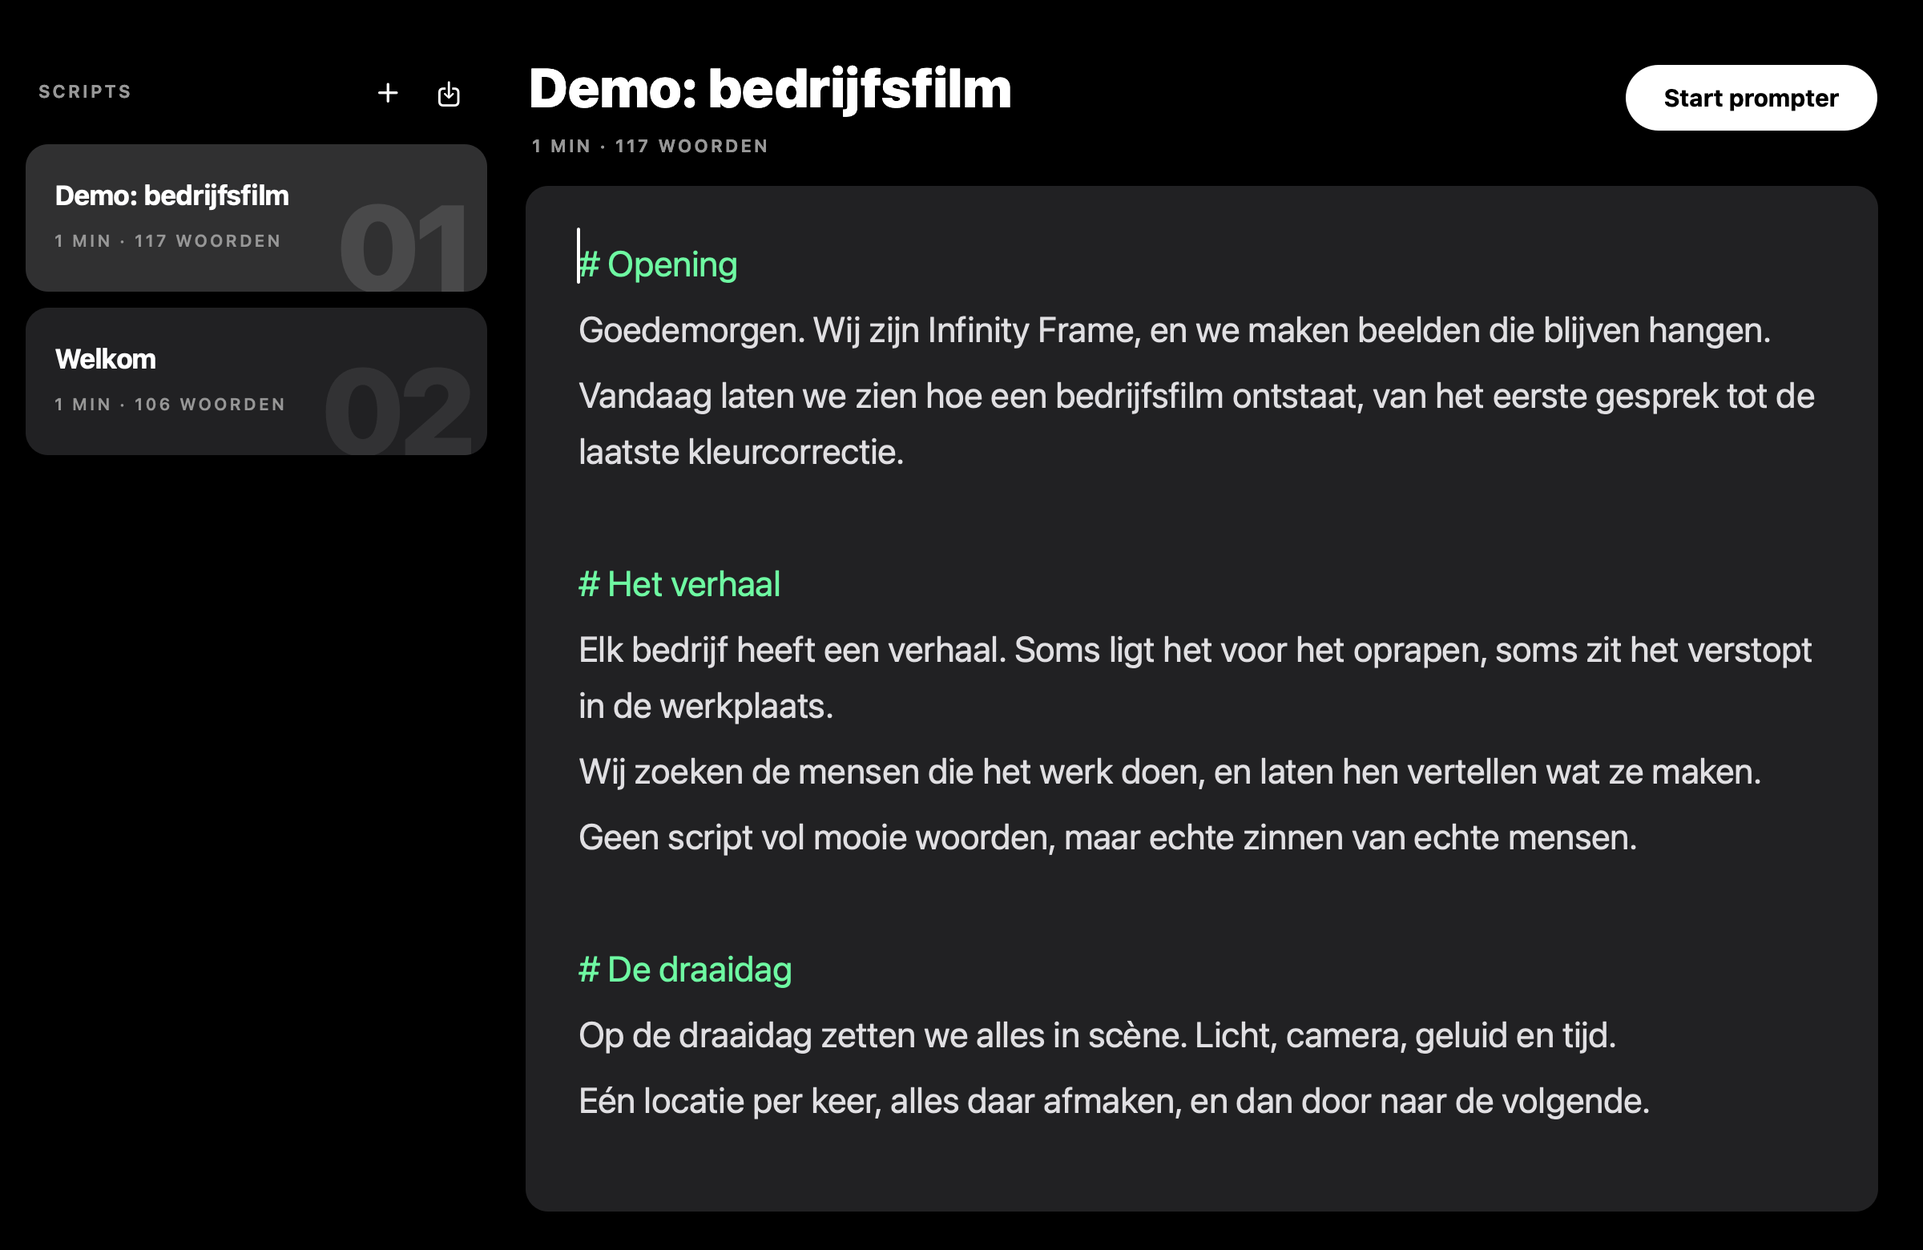
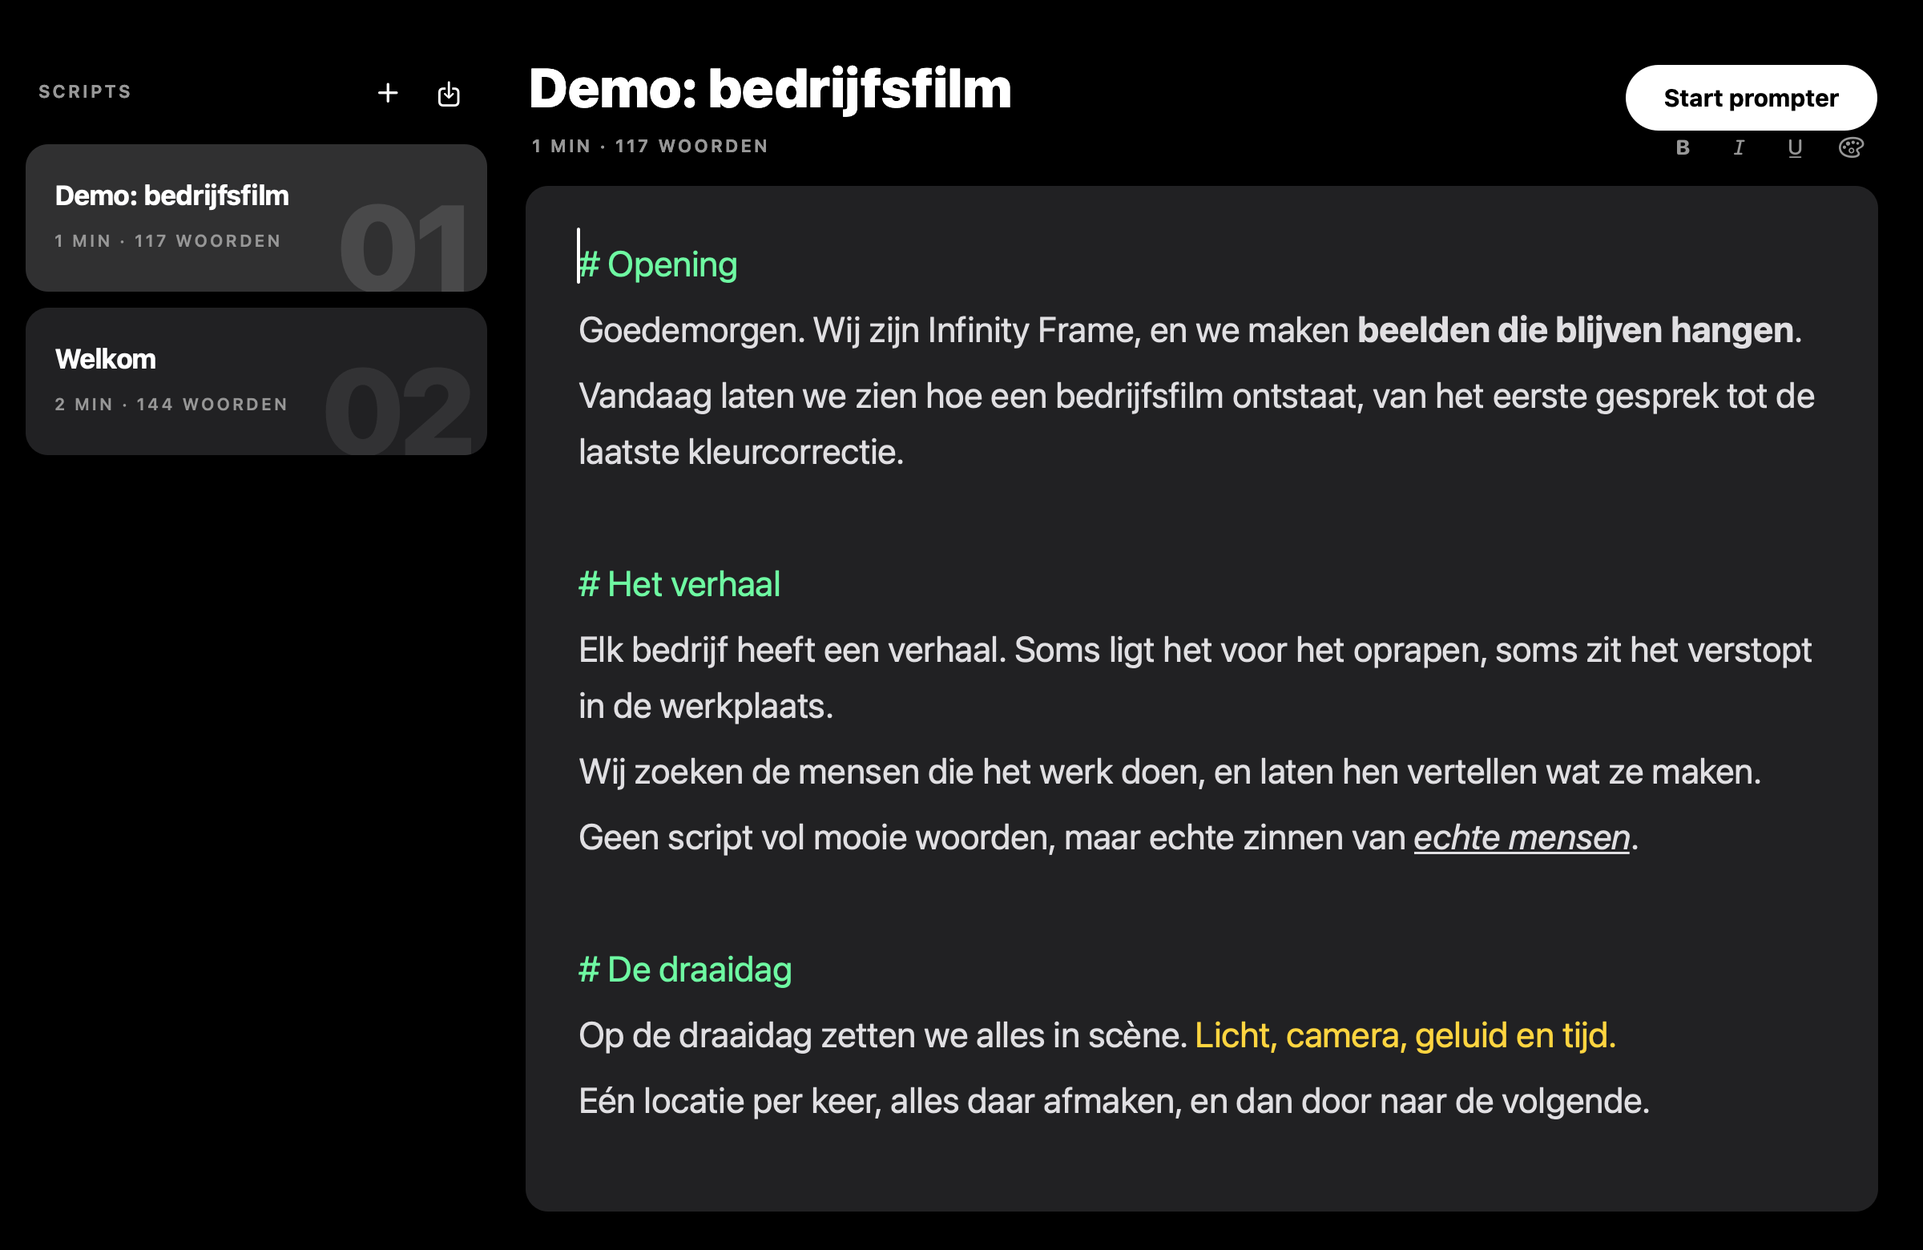
Build 5 (1.0)

diff --git a/MainWindow.swift b/MainWindow.swift
@@ -930,6 +930,8 @@ final class CountdownView: NSView {
     private let timeValue = makeLabel("0:00", size: 17, weight: .semibold)
     private let speedLabel = makeLabel(size: 10)
     private let timeClick = ClickView()
+    private let leftHandle = WidthHandle()
+    private let rightHandle = WidthHandle()
     private let speedValue = makeLabel("20", size: 30, weight: .heavy)
     private let toast = makeLabel(size: 13, weight: .semibold)
     private var playButton: NSButton?
@@ -951,6 +953,11 @@ final class CountdownView: NSView {
         wantsLayer = true
         addSubview(prompter)
         addSubview(countdown)
+        addSubview(leftHandle)
+        addSubview(rightHandle)
+        for h in [leftHandle, rightHandle] {
+            h.onDrag = { [weak self] x in self?.dragWidth(toX: x) }
+        }
         addSubview(bar)
         bar.addSubview(progress)
         toast.alignment = .center
@@ -1036,6 +1043,7 @@ final class CountdownView: NSView {
         let w = min(860, max(bounds.width - 32, 200))
         let h: CGFloat = 78
         bar.frame = NSRect(x: (bounds.width - w) / 2, y: bounds.height - h - 18, width: w, height: h)
+        layoutHandles()
         progress.frame = NSRect(x: 22, y: 10, width: w - 44, height: 3)
         stack.frame = NSRect(x: 0, y: 16, width: w, height: h - 18)
         toast.frame = NSRect(x: 0, y: bar.frame.minY - 34, width: bounds.width, height: 20)
@@ -1082,6 +1090,7 @@ final class CountdownView: NSView {
     private func refreshState() {
         let p = Prompter.shared
         let s = p.settings
+        layoutHandles()
         if p.isHoldingSlow {
             speedValue.stringValue = "\(Int(max(0, p.speed - s.holdSlowSteps).rounded()))"
             speedLabel.attributedStringValue = Theme.label("Trager", size: 9.5, color: Theme.mint)
@@ -1121,7 +1130,12 @@ final class CountdownView: NSView {
     private func showBar() {
         guard !barVisible else { return }
         barVisible = true
-        NSAnimationContext.runAnimationGroup { c in c.duration = Theme.fast; bar.animator().alphaValue = 1 }
+        NSAnimationContext.runAnimationGroup { c in
+            c.duration = Theme.fast
+            bar.animator().alphaValue = 1
+            leftHandle.animator().alphaValue = 1
+            rightHandle.animator().alphaValue = 1
+        }
     }
 
     private func scheduleHide() {
@@ -1133,7 +1147,12 @@ final class CountdownView: NSView {
             MainActor.assumeIsolated {
                 guard let self = self, Prompter.shared.isScrolling, Prompter.shared.settings.hideControlsWhileScrolling else { return }
                 self.barVisible = false
-                NSAnimationContext.runAnimationGroup { c in c.duration = Theme.soft; self.bar.animator().alphaValue = 0 }
+                NSAnimationContext.runAnimationGroup { c in
+                    c.duration = Theme.soft
+                    self.bar.animator().alphaValue = 0
+                    self.leftHandle.animator().alphaValue = 0
+                    self.rightHandle.animator().alphaValue = 0
+                }
             }
         }
         hideWork = work
@@ -1159,6 +1178,32 @@ final class CountdownView: NSView {
     @objc private func mirrorClicked() { Prompter.shared.toggleMirrorMain() }
     @objc private func closeClicked() { onClose?() }
     @objc private func screenClicked() { toggleSecondScreen() }
+
+    // MARK: Text width handles
+
+    /// Handles sit on the edges of the text column. The column is symmetric, so mirroring does not move them.
+    private func layoutHandles() {
+        let w = bounds.width
+        guard w > 0 else { return }
+        let margin = (w * CGFloat(Prompter.shared.settings.marginFraction)).rounded()
+        let hw: CGFloat = 24
+        let top: CGFloat = 40
+        let height = max(bar.frame.minY - top - 24, 40)
+        leftHandle.frame = NSRect(x: margin - hw / 2, y: top, width: hw, height: height)
+        rightHandle.frame = NSRect(x: w - margin - hw / 2, y: top, width: hw, height: height)
+    }
+
+    /// Dragging either side moves both: the margin is the distance from the nearest window edge.
+    private func dragWidth(toX x: CGFloat) {
+        let w = bounds.width
+        guard w > 0, x.isFinite else { return }
+        let local = min(x, w - x)
+        let fraction = Double(local / w)
+        let width = ((1 - 2 * fraction) * 100).rounded() / 100
+        var s = Prompter.shared.settings
+        s.marginFraction = TextWidth.margin(forWidth: width)
+        Prompter.shared.settings = s
+    }
 
     func toggleSecondScreen() {
         PrompterScreen.toggleSecondScreenStatic(toast: { [weak self] t in self?.showToast(t) })
@@ -1618,7 +1663,9 @@ private final class SidebarItem: NSView {
                 slider("Grootte", 20, 220, read: { $0.fontSize }, format: { "\(Int($0.rounded()))" }) { $0.fontSize = $1.rounded() },
                 slider("Regelafstand", 1.0, 2.5, read: { $0.lineSpacing },
                        format: { String(format: "%.1f", $0).replacingOccurrences(of: ".", with: ",") }) { $0.lineSpacing = ($1 * 10).rounded() / 10 },
-                slider("Marges", 0, 0.4, read: { $0.marginFraction }, format: pct) { $0.marginFraction = ($1 * 100).rounded() / 100 },
+                slider("Breedte tekst", 0.2, 1, read: { 1 - 2 * $0.marginFraction }, format: pct) {
+                    $0.marginFraction = TextWidth.margin(forWidth: ($1 * 100).rounded() / 100)
+                },
                 colorRow("Tekstkleur", read: { Prompter.shared.settings.textColor },
                          write: { [weak self] c in self?.change { $0.textColorHex = Theme.hex(c) } }),
                 colorRow("Achtergrond", read: { Prompter.shared.settings.backgroundColor },
@@ -1764,4 +1811,56 @@ final class ActionButton: NSButton {
         action = #selector(fire)
     }
     @objc private func fire() { onClick?() }
+}
+
+// MARK: - Text width
+
+enum TextWidth {
+    /// Width of the text column as a fraction of the window, 0.2...1, to the per-side margin.
+    static func margin(forWidth width: Double) -> Double {
+        guard width.isFinite else { return 0.12 }
+        let w = min(max(width, 0.2), 1)
+        return ((1 - w) / 2 * 1000).rounded() / 1000
+    }
+    static func width(of s: PrompterSettings) -> Double { 1 - 2 * s.marginFraction }
+
+    /// ⌘[ / ⌘]: 5% of the window per step.
+    @MainActor static func step(_ delta: Double) {
+        var s = Prompter.shared.settings
+        let w = ((width(of: s) + delta) * 100).rounded() / 100
+        s.marginFraction = margin(forWidth: w)
+        Prompter.shared.settings = s
+    }
+}
+
+/// Thin drag handle on an edge of the text column.
+final class WidthHandle: NSView {
+    var onDrag: ((CGFloat) -> Void)?
+    private var hover = false { didSet { if hover != oldValue { needsDisplay = true } } }
+    override var isFlipped: Bool { true }
+
+    override func draw(_ dirtyRect: NSRect) {
+        let x = bounds.midX
+        NSColor(white: 1, alpha: hover ? 0.5 : 0.22).setFill()
+        NSRect(x: x - 0.5, y: 0, width: 1, height: bounds.height).fill(using: .sourceOver)
+        let grip = NSRect(x: x - 3, y: bounds.midY - 22, width: 6, height: 44)
+        NSColor(white: 1, alpha: hover ? 0.95 : 0.7).setFill()
+        NSBezierPath(roundedRect: grip, xRadius: 3, yRadius: 3).fill()
+    }
+
+    override func resetCursorRects() { addCursorRect(bounds, cursor: .resizeLeftRight) }
+
+    override func updateTrackingAreas() {
+        super.updateTrackingAreas()
+        for t in trackingAreas { removeTrackingArea(t) }
+        addTrackingArea(NSTrackingArea(rect: .zero, options: [.mouseEnteredAndExited, .activeAlways, .inVisibleRect], owner: self, userInfo: nil))
+    }
+    override func mouseEntered(with event: NSEvent) { hover = true }
+    override func mouseExited(with event: NSEvent) { hover = false }
+    override func mouseDown(with event: NSEvent) { hover = true }
+    override func mouseDragged(with event: NSEvent) {
+        guard let parent = superview else { return }
+        onDrag?(parent.convert(event.locationInWindow, from: nil).x)
+    }
+    override func mouseUp(with event: NSEvent) { hover = false }
 }

diff --git a/App.swift b/App.swift
@@ -252,6 +252,8 @@ struct InfinityPromptMain {
     @objc func bigger(_ sender: Any?) { Prompter.shared.biggerFont() }
     @objc func smaller(_ sender: Any?) { Prompter.shared.smallerFont() }
     @objc func secondScreen(_ sender: Any?) { main?.toggleSecondScreen() }
+    @objc func narrower(_ sender: Any?) { TextWidth.step(-0.05) }
+    @objc func wider(_ sender: Any?) { TextWidth.step(0.05) }
     @objc func openSettings(_ sender: Any?) { SettingsWindow.shared.show() }
     @objc func formatBold(_ sender: Any?) { main?.toggleBold() }
     @objc func formatItalic(_ sender: Any?) { main?.toggleItalic() }
@@ -383,6 +385,8 @@ struct InfinityPromptMain {
         add(pr, "Spiegel tweede scherm", #selector(mirrorExternal(_:)), "m", [.shift], bare: true)
         add(pr, "Groter", #selector(bigger(_:)), "+")
         add(pr, "Kleiner", #selector(smaller(_:)), "-")
+        add(pr, "Tekst smaller", #selector(narrower(_:)), "[")
+        add(pr, "Tekst breder", #selector(wider(_:)), "]")
         pr.addItem(.separator())
         add(pr, "Tweede scherm", #selector(secondScreen(_:)), "2")
         add(pr, "Testvenster tweede scherm", #selector(testScreen(_:)), "2", [.command, .shift])

diff --git a/Broncode (voor de andere Mac).md b/Broncode (voor de andere Mac).md
@@ -1,4 +1,4 @@
-# Infinity Prompt, broncode (build 4)
+# Infinity Prompt, broncode (build 5)
 
 Op een andere Mac: maak de map teleprompter, zet elk blok hieronder in een bestand met die naam, en draai ./bouw.sh.
 
@@ -1378,6 +1378,8 @@ struct InfinityPromptMain {
     @objc func bigger(_ sender: Any?) { Prompter.shared.biggerFont() }
     @objc func smaller(_ sender: Any?) { Prompter.shared.smallerFont() }
     @objc func secondScreen(_ sender: Any?) { main?.toggleSecondScreen() }
+    @objc func narrower(_ sender: Any?) { TextWidth.step(-0.05) }
+    @objc func wider(_ sender: Any?) { TextWidth.step(0.05) }
     @objc func openSettings(_ sender: Any?) { SettingsWindow.shared.show() }
     @objc func formatBold(_ sender: Any?) { main?.toggleBold() }
     @objc func formatItalic(_ sender: Any?) { main?.toggleItalic() }
@@ -1509,6 +1511,8 @@ struct InfinityPromptMain {
         add(pr, "Spiegel tweede scherm", #selector(mirrorExternal(_:)), "m", [.shift], bare: true)
         add(pr, "Groter", #selector(bigger(_:)), "+")
         add(pr, "Kleiner", #selector(smaller(_:)), "-")
+        add(pr, "Tekst smaller", #selector(narrower(_:)), "[")
+        add(pr, "Tekst breder", #selector(wider(_:)), "]")
         pr.addItem(.separator())
         add(pr, "Tweede scherm", #selector(secondScreen(_:)), "2")
         add(pr, "Testvenster tweede scherm", #selector(testScreen(_:)), "2", [.command, .shift])
@@ -2468,6 +2472,8 @@ final class CountdownView: NSView {
     private let timeValue = makeLabel("0:00", size: 17, weight: .semibold)
     private let speedLabel = makeLabel(size: 10)
     private let timeClick = ClickView()
+    private let leftHandle = WidthHandle()
+    private let rightHandle = WidthHandle()
     private let speedValue = makeLabel("20", size: 30, weight: .heavy)
     private let toast = makeLabel(size: 13, weight: .semibold)
     private var playButton: NSButton?
@@ -2489,6 +2495,11 @@ final class CountdownView: NSView {
         wantsLayer = true
         addSubview(prompter)
         addSubview(countdown)
+        addSubview(leftHandle)
+        addSubview(rightHandle)
+        for h in [leftHandle, rightHandle] {
+            h.onDrag = { [weak self] x in self?.dragWidth(toX: x) }
+        }
         addSubview(bar)
         bar.addSubview(progress)
         toast.alignment = .center
@@ -2574,6 +2585,7 @@ final class CountdownView: NSView {
         let w = min(860, max(bounds.width - 32, 200))
         let h: CGFloat = 78
         bar.frame = NSRect(x: (bounds.width - w) / 2, y: bounds.height - h - 18, width: w, height: h)
+        layoutHandles()
         progress.frame = NSRect(x: 22, y: 10, width: w - 44, height: 3)
         stack.frame = NSRect(x: 0, y: 16, width: w, height: h - 18)
         toast.frame = NSRect(x: 0, y: bar.frame.minY - 34, width: bounds.width, height: 20)
@@ -2620,6 +2632,7 @@ final class CountdownView: NSView {
     private func refreshState() {
         let p = Prompter.shared
         let s = p.settings
+        layoutHandles()
         if p.isHoldingSlow {
             speedValue.stringValue = "\(Int(max(0, p.speed - s.holdSlowSteps).rounded()))"
             speedLabel.attributedStringValue = Theme.label("Trager", size: 9.5, color: Theme.mint)
@@ -2659,7 +2672,12 @@ final class CountdownView: NSView {
     private func showBar() {
         guard !barVisible else { return }
         barVisible = true
-        NSAnimationContext.runAnimationGroup { c in c.duration = Theme.fast; bar.animator().alphaValue = 1 }
+        NSAnimationContext.runAnimationGroup { c in
+            c.duration = Theme.fast
+            bar.animator().alphaValue = 1
+            leftHandle.animator().alphaValue = 1
+            rightHandle.animator().alphaValue = 1
+        }
     }
 
     private func scheduleHide() {
@@ -2671,7 +2689,12 @@ final class CountdownView: NSView {
             MainActor.assumeIsolated {
                 guard let self = self, Prompter.shared.isScrolling, Prompter.shared.settings.hideControlsWhileScrolling else { return }
                 self.barVisible = false
-                NSAnimationContext.runAnimationGroup { c in c.duration = Theme.soft; self.bar.animator().alphaValue = 0 }
+                NSAnimationContext.runAnimationGroup { c in
+                    c.duration = Theme.soft
+                    self.bar.animator().alphaValue = 0
+                    self.leftHandle.animator().alphaValue = 0
+                    self.rightHandle.animator().alphaValue = 0
+                }
             }
         }
         hideWork = work
@@ -2697,6 +2720,32 @@ final class CountdownView: NSView {
     @objc private func mirrorClicked() { Prompter.shared.toggleMirrorMain() }
     @objc private func closeClicked() { onClose?() }
     @objc private func screenClicked() { toggleSecondScreen() }
+
+    // MARK: Text width handles
+
+    /// Handles sit on the edges of the text column. The column is symmetric, so mirroring does not move them.
+    private func layoutHandles() {
+        let w = bounds.width
+        guard w > 0 else { return }
+        let margin = (w * CGFloat(Prompter.shared.settings.marginFraction)).rounded()
+        let hw: CGFloat = 24
+        let top: CGFloat = 40
+        let height = max(bar.frame.minY - top - 24, 40)
+        leftHandle.frame = NSRect(x: margin - hw / 2, y: top, width: hw, height: height)
+        rightHandle.frame = NSRect(x: w - margin - hw / 2, y: top, width: hw, height: height)
+    }
+
+    /// Dragging either side moves both: the margin is the distance from the nearest window edge.
+    private func dragWidth(toX x: CGFloat) {
+        let w = bounds.width
+        guard w > 0, x.isFinite else { return }
+        let local = min(x, w - x)
+        let fraction = Double(local / w)
+        let width = ((1 - 2 * fraction) * 100).rounded() / 100
+        var s = Prompter.shared.settings
+        s.marginFraction = TextWidth.margin(forWidth: width)
+        Prompter.shared.settings = s
+    }
 
     func toggleSecondScreen() {
         PrompterScreen.toggleSecondScreenStatic(toast: { [weak self] t in self?.showToast(t) })
@@ -3156,7 +3205,9 @@ private final class SidebarItem: NSView {
                 slider("Grootte", 20, 220, read: { $0.fontSize }, format: { "\(Int($0.rounded()))" }) { $0.fontSize = $1.rounded() },
                 slider("Regelafstand", 1.0, 2.5, read: { $0.lineSpacing },
                        format: { String(format: "%.1f", $0).replacingOccurrences(of: ".", with: ",") }) { $0.lineSpacing = ($1 * 10).rounded() / 10 },
-                slider("Marges", 0, 0.4, read: { $0.marginFraction }, format: pct) { $0.marginFraction = ($1 * 100).rounded() / 100 },
+                slider("Breedte tekst", 0.2, 1, read: { 1 - 2 * $0.marginFraction }, format: pct) {
+                    $0.marginFraction = TextWidth.margin(forWidth: ($1 * 100).rounded() / 100)
+                },
                 colorRow("Tekstkleur", read: { Prompter.shared.settings.textColor },
                          write: { [weak self] c in self?.change { $0.textColorHex = Theme.hex(c) } }),
                 colorRow("Achtergrond", read: { Prompter.shared.settings.backgroundColor },
@@ -3302,6 +3353,58 @@ final class ActionButton: NSButton {
         action = #selector(fire)
     }
     @objc private func fire() { onClick?() }
+}
+
+// MARK: - Text width
+
+enum TextWidth {
+    /// Width of the text column as a fraction of the window, 0.2...1, to the per-side margin.
+    static func margin(forWidth width: Double) -> Double {
+        guard width.isFinite else { return 0.12 }
+        let w = min(max(width, 0.2), 1)
+        return ((1 - w) / 2 * 1000).rounded() / 1000
+    }
+    static func width(of s: PrompterSettings) -> Double { 1 - 2 * s.marginFraction }
+
+    /// ⌘[ / ⌘]: 5% of the window per step.
+    @MainActor static func step(_ delta: Double) {
+        var s = Prompter.shared.settings
+        let w = ((width(of: s) + delta) * 100).rounded() / 100
+        s.marginFraction = margin(forWidth: w)
+        Prompter.shared.settings = s
+    }
+}
+
+/// Thin drag handle on an edge of the text column.
+final class WidthHandle: NSView {
+    var onDrag: ((CGFloat) -> Void)?
+    private var hover = false { didSet { if hover != oldValue { needsDisplay = true } } }
+    override var isFlipped: Bool { true }
+
+    override func draw(_ dirtyRect: NSRect) {
+        let x = bounds.midX
+        NSColor(white: 1, alpha: hover ? 0.5 : 0.22).setFill()
+        NSRect(x: x - 0.5, y: 0, width: 1, height: bounds.height).fill(using: .sourceOver)
+        let grip = NSRect(x: x - 3, y: bounds.midY - 22, width: 6, height: 44)
+        NSColor(white: 1, alpha: hover ? 0.95 : 0.7).setFill()
+        NSBezierPath(roundedRect: grip, xRadius: 3, yRadius: 3).fill()
+    }
+
+    override func resetCursorRects() { addCursorRect(bounds, cursor: .resizeLeftRight) }
+
+    override func updateTrackingAreas() {
+        super.updateTrackingAreas()
+        for t in trackingAreas { removeTrackingArea(t) }
+        addTrackingArea(NSTrackingArea(rect: .zero, options: [.mouseEnteredAndExited, .activeAlways, .inVisibleRect], owner: self, userInfo: nil))
+    }
+    override func mouseEntered(with event: NSEvent) { hover = true }
+    override func mouseExited(with event: NSEvent) { hover = false }
+    override func mouseDown(with event: NSEvent) { hover = true }
+    override func mouseDragged(with event: NSEvent) {
+        guard let parent = superview else { return }
+        onDrag?(parent.convert(event.locationInWindow, from: nil).x)
+    }
+    override func mouseUp(with event: NSEvent) { hover = false }
 }
 ````
 
@@ -5357,7 +5460,7 @@ rm -rf "$TMP"
 	<key>CFBundleShortVersionString</key>
 	<string>1.0</string>
 	<key>CFBundleVersion</key>
-	<string>4</string>
+	<string>5</string>
 	<key>LSMinimumSystemVersion</key>
 	<string>14.0</string>
 	<key>NSBonjourServices</key>

diff --git a/LEESMIJ.md b/LEESMIJ.md
@@ -14,6 +14,7 @@ Eigen teleprompter voor de Mac. Gebouwd 16 november 2026 als vervanging van de A
 | Page Down / Up | Pagina verder / terug (pedaal, klikker) |
 | Home | Naar het begin |
 | M / ⇧M | Spiegelen hier / op tweede scherm |
+| ⌘[ / ⌘] | Tekst smaller / breder (of sleep de randen) |
 | ⌘, | Instellingen |
 | ⌘2 | Tweede scherm |
 | Esc | Terug naar de editor |
